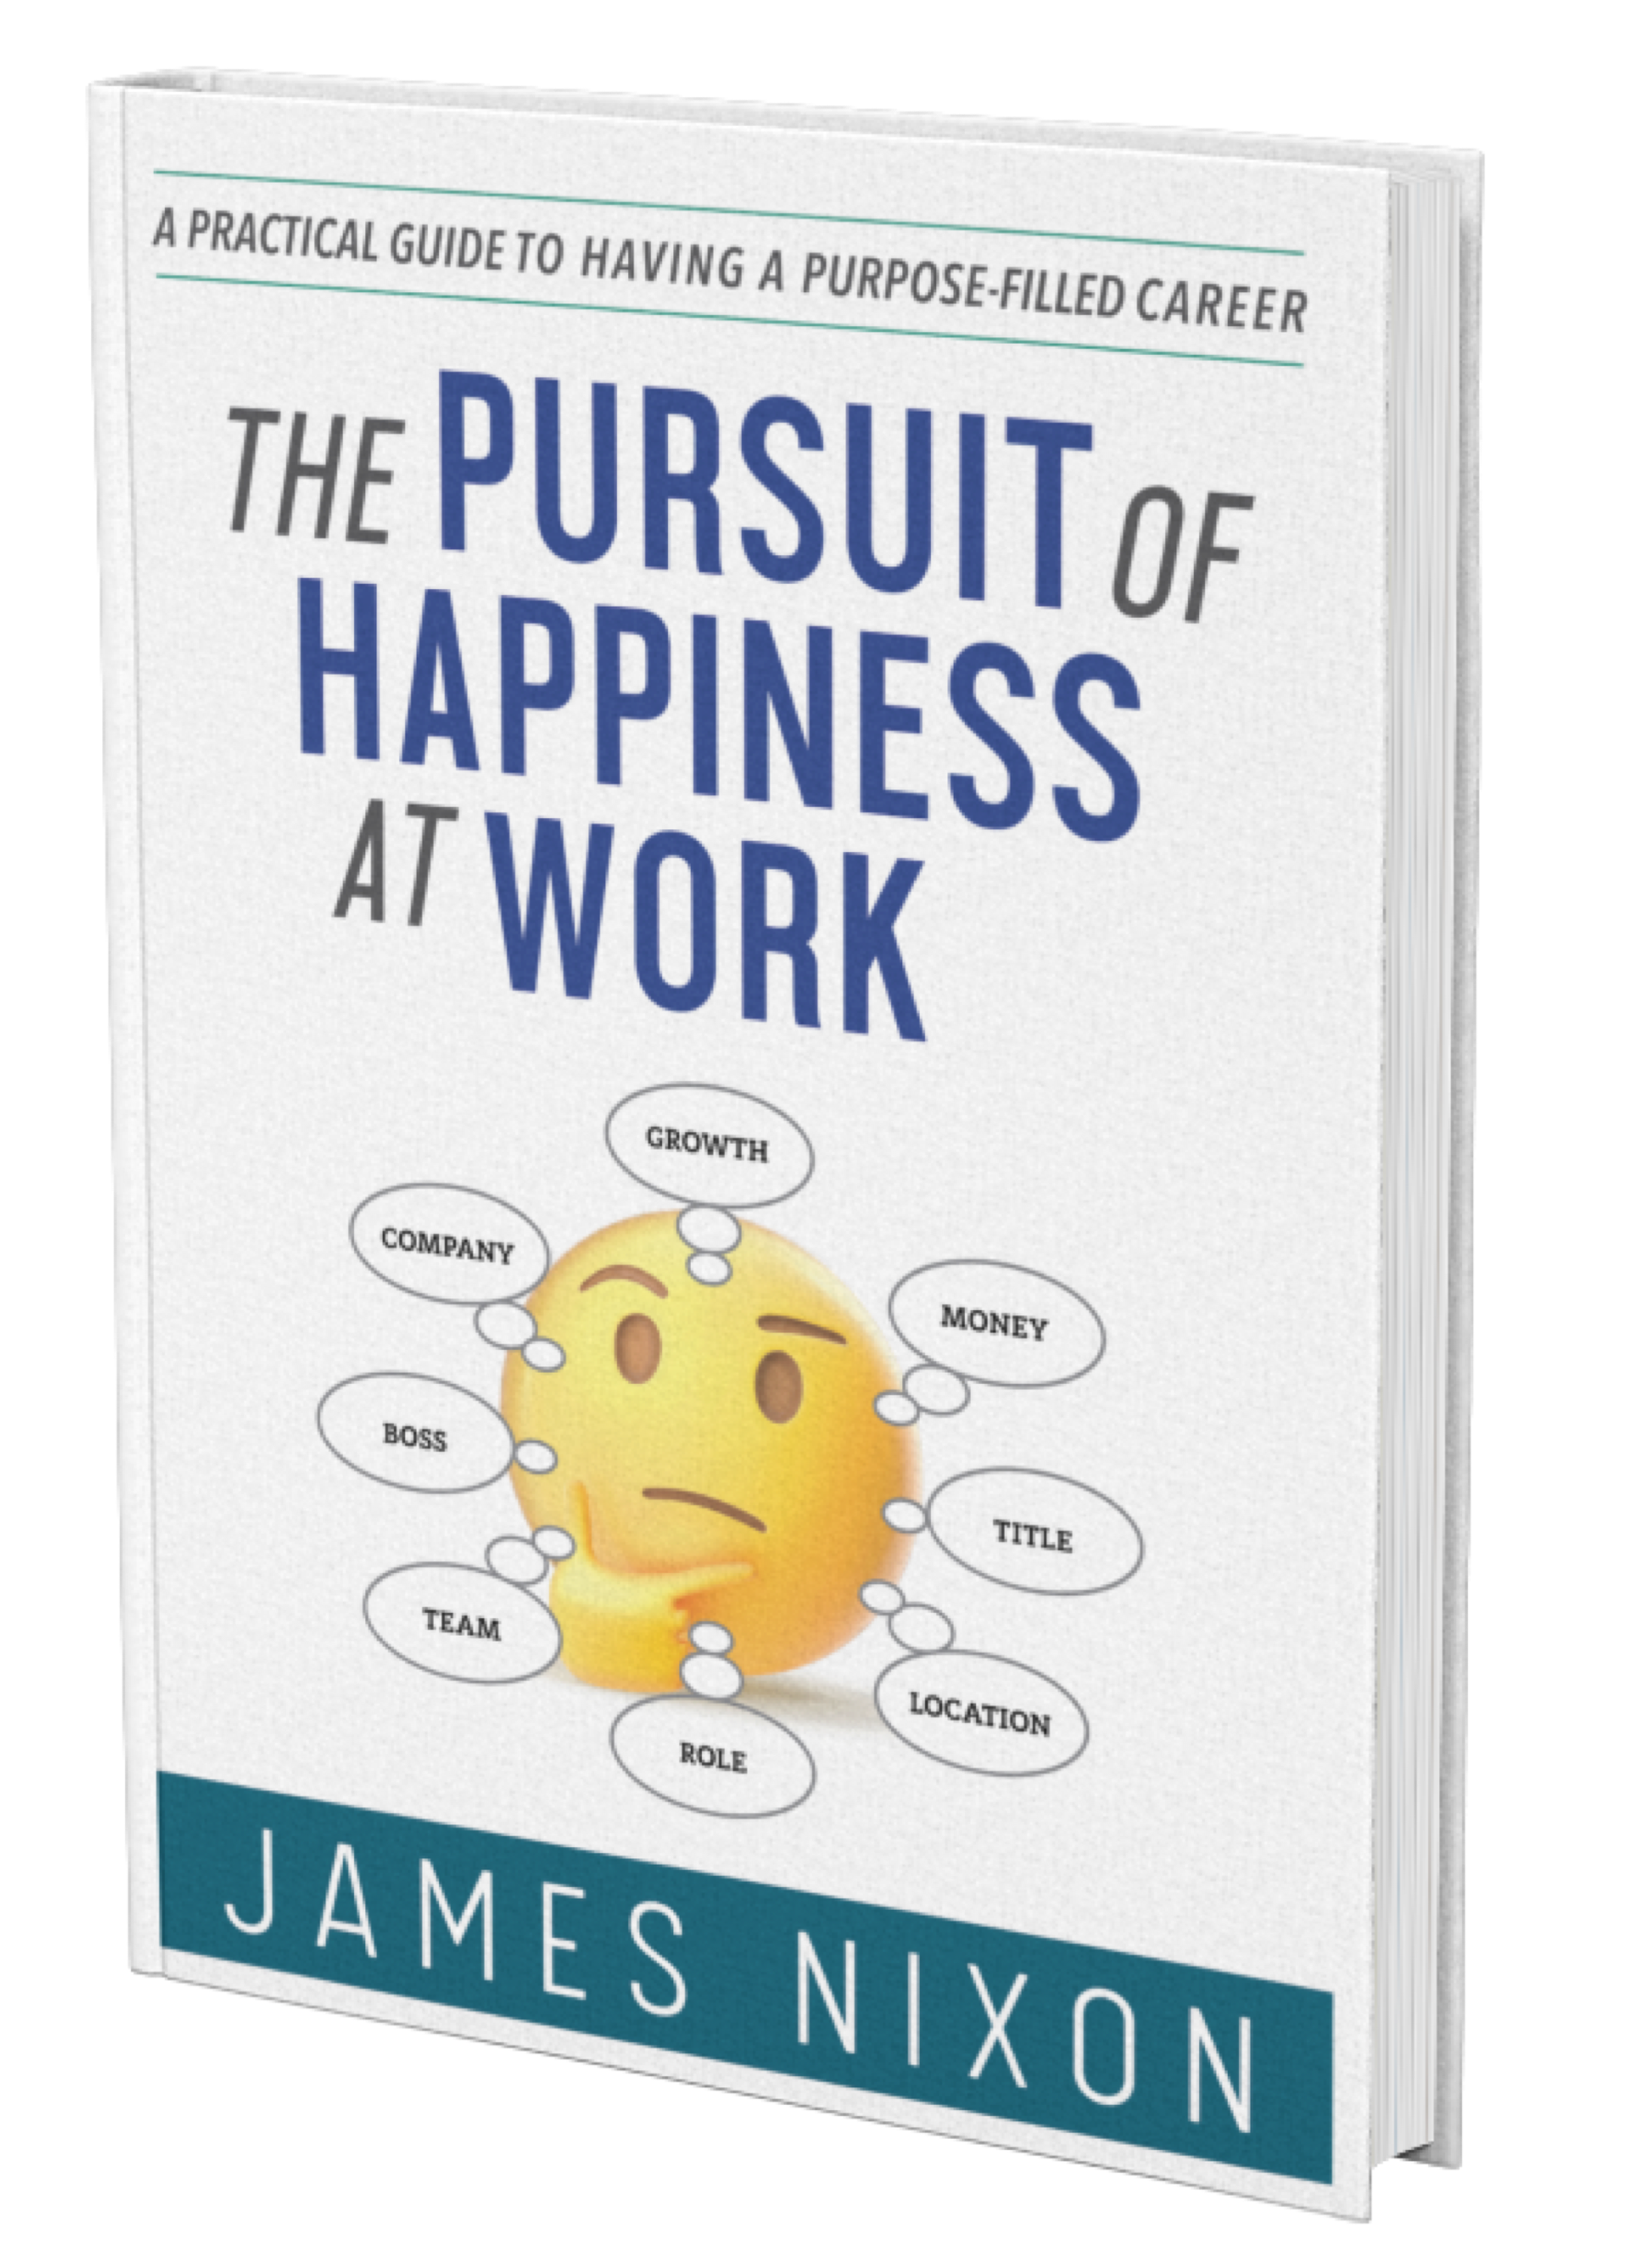
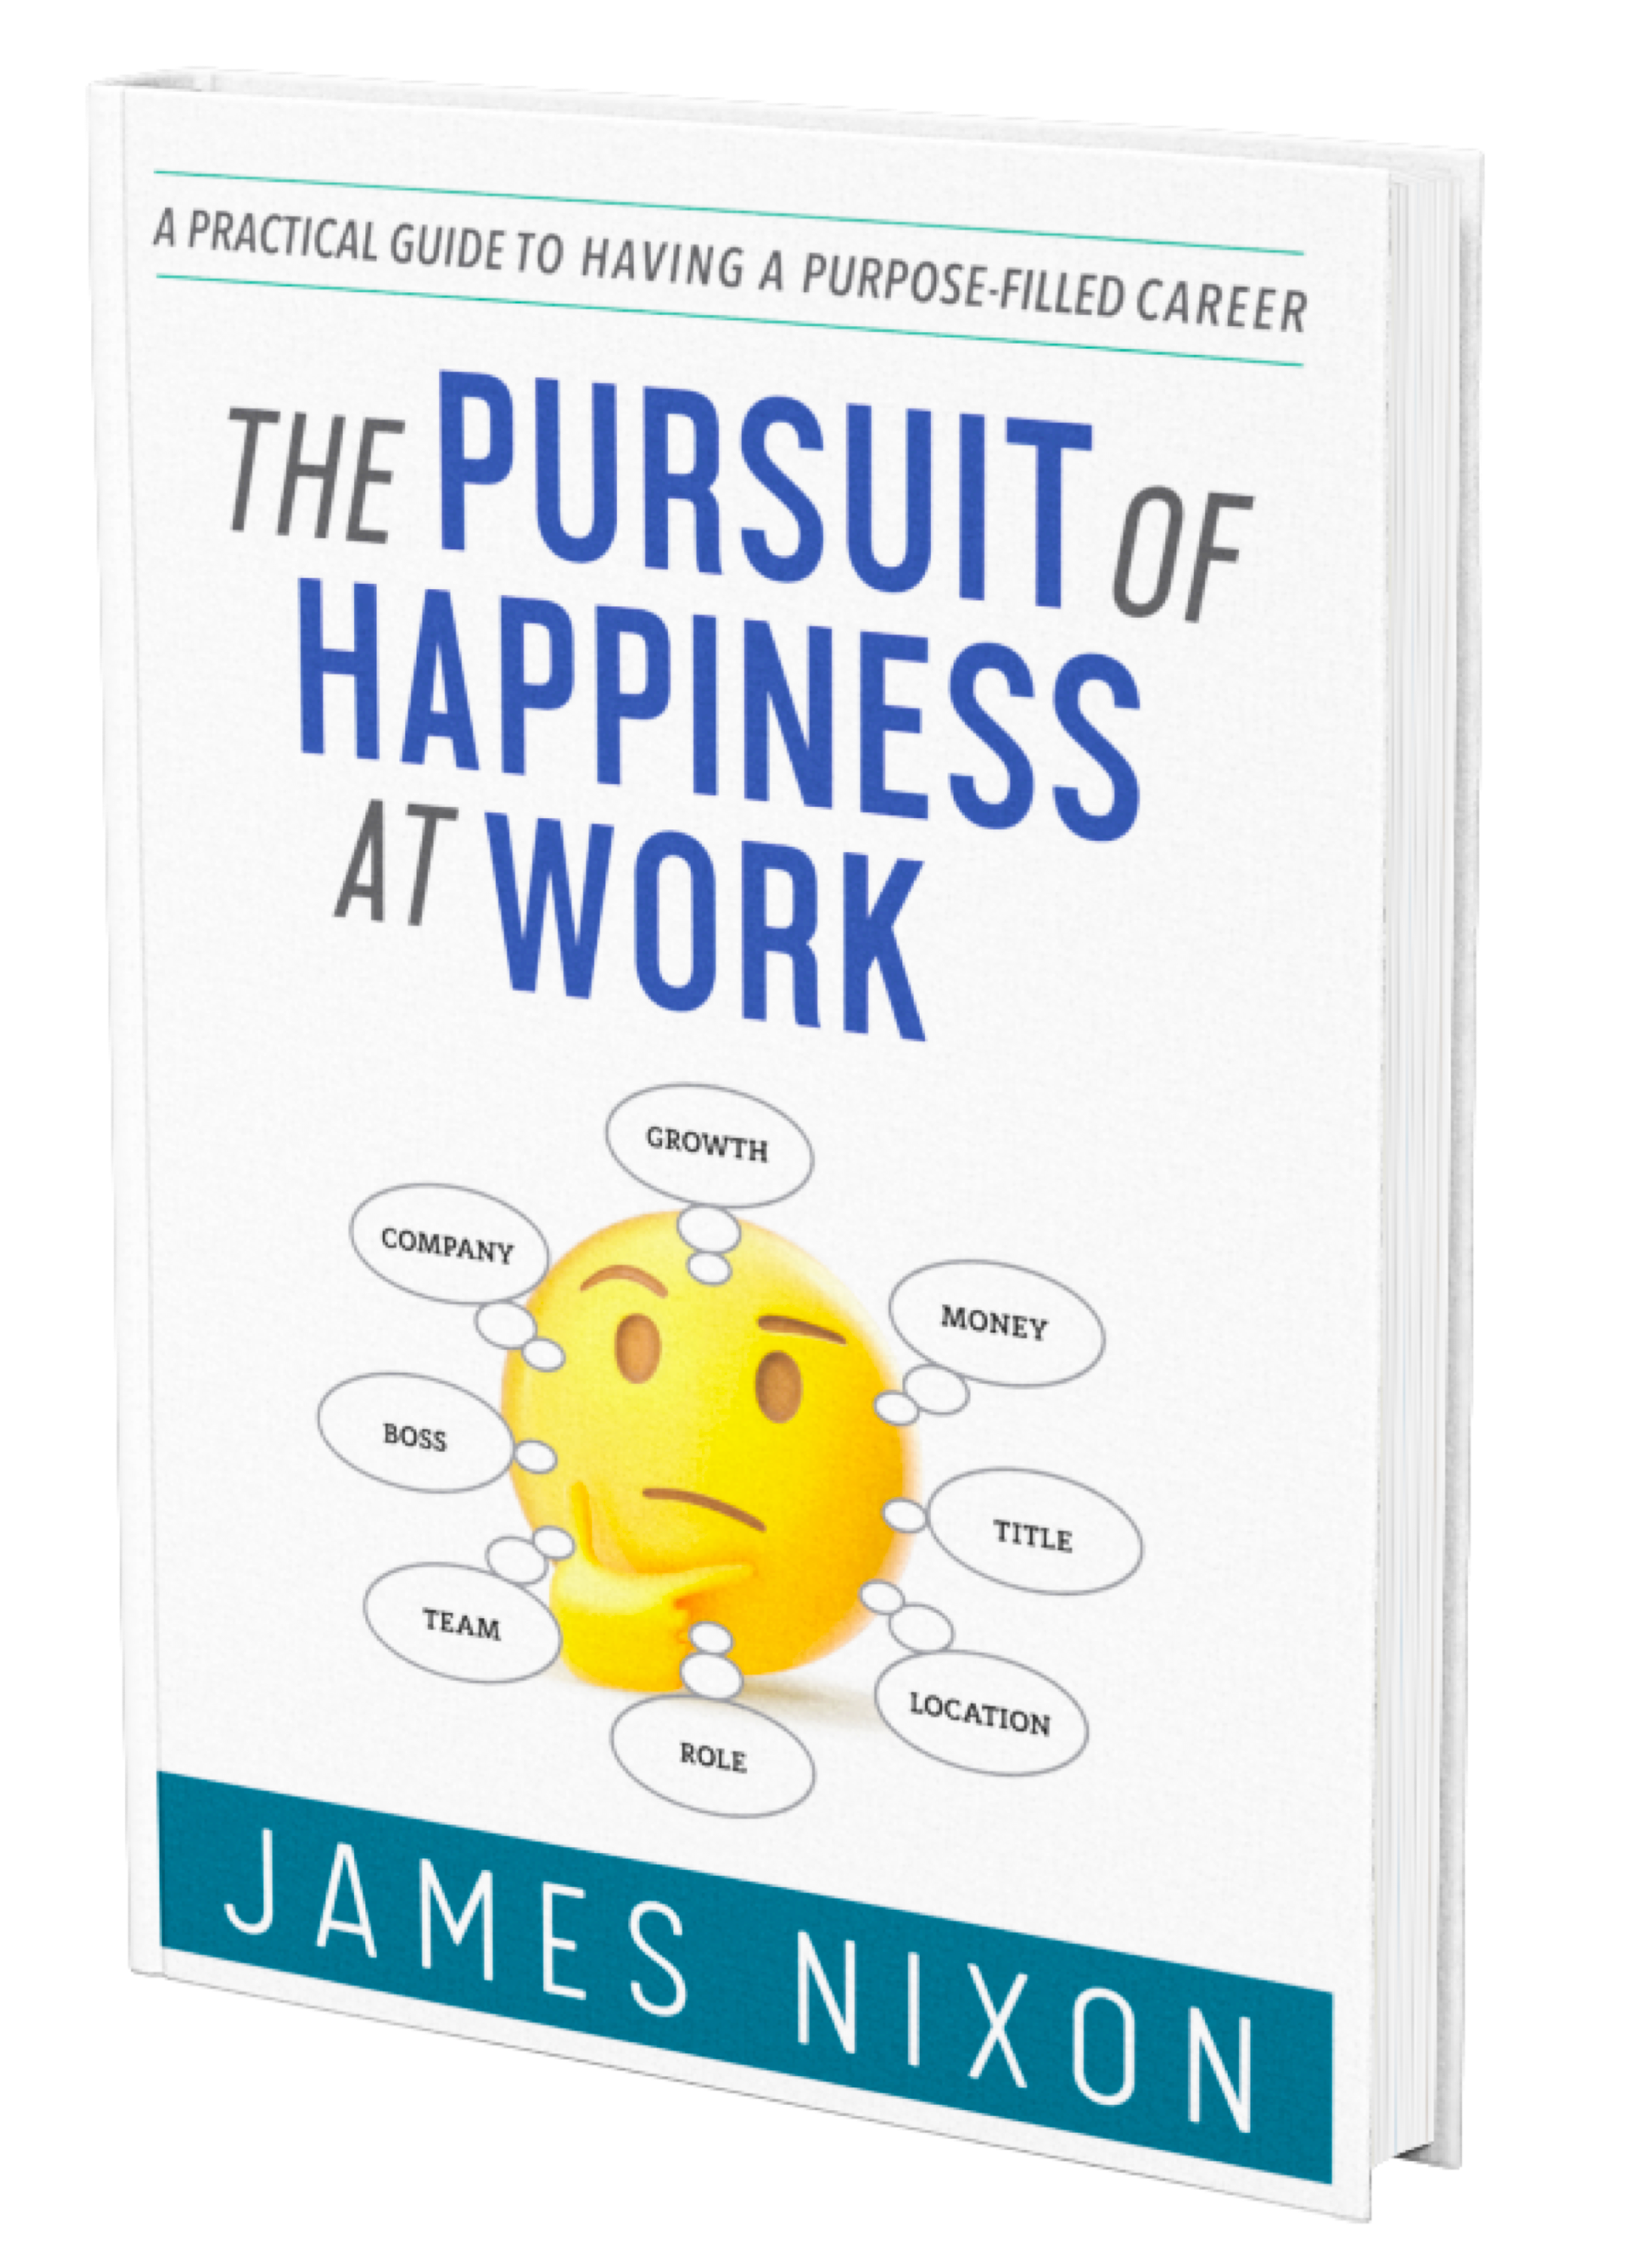
update book covers

diff --git a/components/Chapters.vue b/components/Chapters.vue
@@ -7,10 +7,10 @@
         <div class="row">
           <div class="col-12 col-md-6">
             <img
-              src="/CDN/assets/bookcover_3d.png"
+              src="/CDN/assets/bookcover_shadow.png"
               class="img-fluid"
               alt="cover"
-              style="max-width: 80%"
+              style="max-width: 90%"
             />
           </div>
           <div class="col-12 col-md-6">
